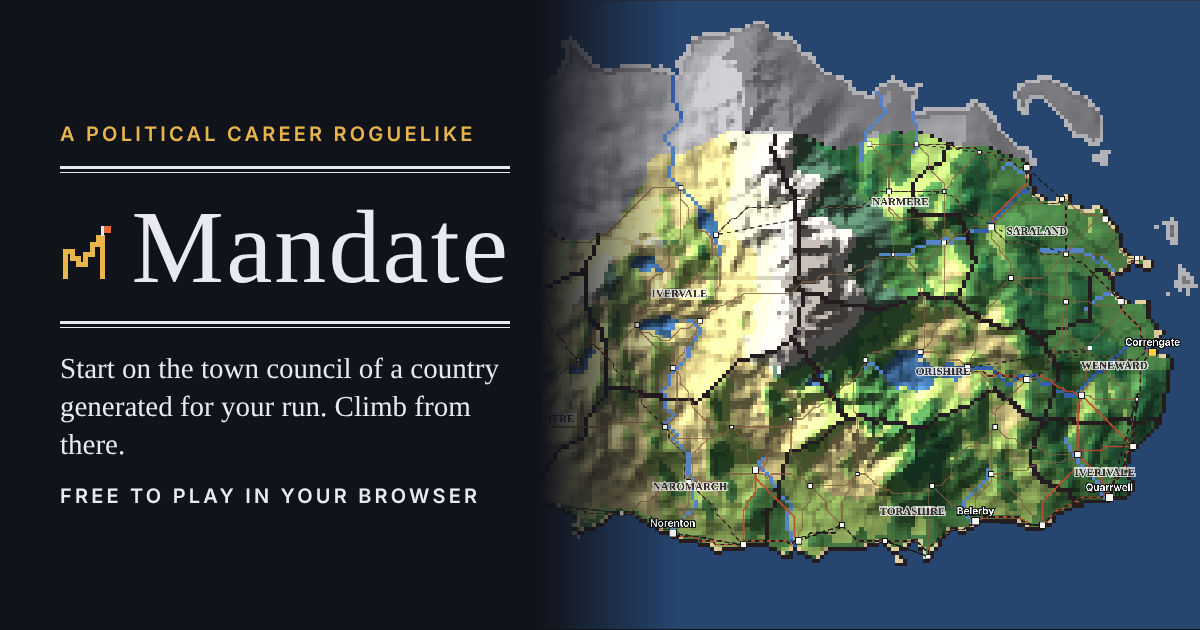
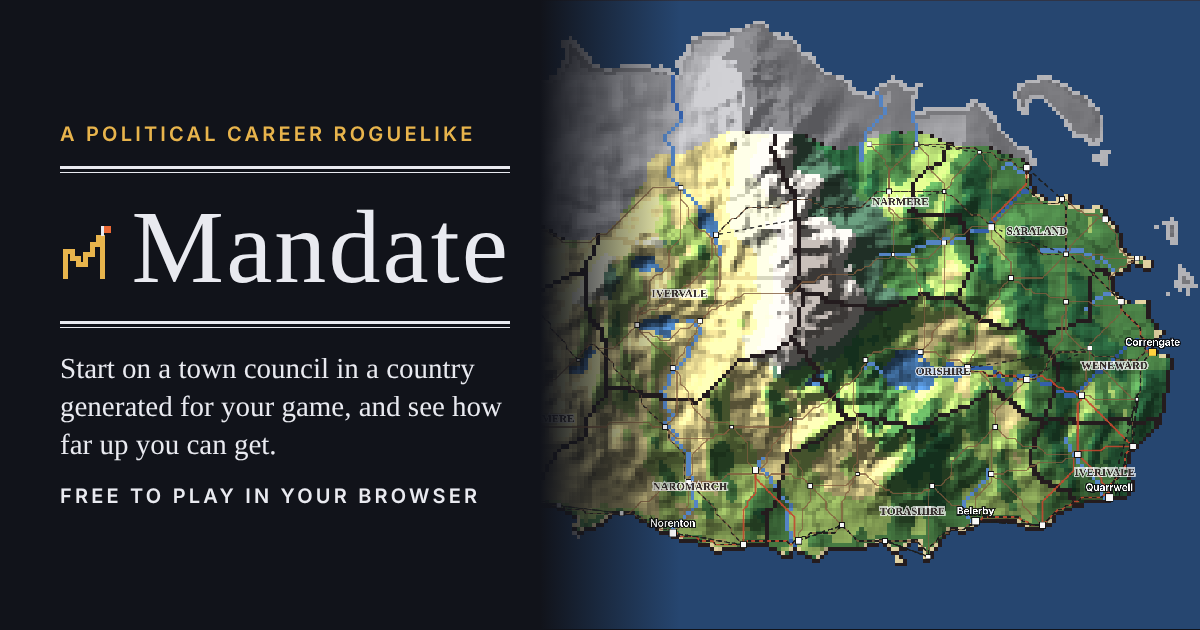
Landing: rewrite the copy in plain language
The first draft read as machine-written: clipped slogan fragments, rows of
threes, colon-led lists and jargon. The body text is now ordinary sentences;
the newspaper voice stays in the headlines, which are written as in-world
headlines. Meta and share-image text follow.

Claude-Session: https://claude.ai/code/session_018x5vMZbmDL1cDywk6v2vP3

Changed region(s): [[0.1233, 0.573, 0.4317, 0.6032], [0.2158, 0.6333, 0.4317, 0.6635], [0.0308, 0.6937, 0.2467, 0.7238]]

diff --git a/web/landing/index.html b/web/landing/index.html
@@ -6,7 +6,7 @@
     <title>Mandate: a political career roguelike, free in your browser</title>
     <meta
       name="description"
-      content="Every run generates a new country. You start on one of its town councils and try to climb. Elections are decided by real groups of voters, and the polls can be wrong. Free to play in your browser, offline on your phone. In active development."
+      content="A strategy game about a political career. Each game generates a new country and puts you on one of its town councils, and you try to work your way up. Free to play in your browser, and it works offline on your phone. Still in development."
     />
     <meta name="color-scheme" content="dark light" />
     <meta name="theme-color" content="#11131a" media="(prefers-color-scheme: dark)" />
@@ -18,7 +18,7 @@
     <meta property="og:title" content="Mandate: a political career roguelike" />
     <meta
       property="og:description"
-      content="A new country every run. Start on the town council and see how far up you get. Free to play in your browser."
+      content="Start on a town council in a country generated just for your game, and see how far up you can get. Free to play in your browser."
     />
     <meta property="og:image:width" content="1200" />
     <meta property="og:image:height" content="630" />
@@ -30,7 +30,7 @@
     <meta name="twitter:title" content="Mandate: a political career roguelike" />
     <meta
       name="twitter:description"
-      content="A new country every run. Start on the town council and see how far up you get. Free to play in your browser."
+      content="Start on a town council in a country generated just for your game, and see how far up you can get. Free to play in your browser."
     />
     <script>
       // An app installed before the game moved to play/ (DEC-083) still opens
@@ -47,8 +47,8 @@
 
     <header class="masthead">
       <p class="strip">
-        <span>In active development</span>
-        <span>Free in your browser</span>
+        <span>Still in development</span>
+        <span>Free to play in your browser</span>
         <span>Works offline</span>
       </p>
       <div class="nameplate">
@@ -76,12 +76,13 @@
       <article class="lead" id="lead" aria-labelledby="lead-title">
         <div class="lead-copy">
           <p class="kicker">A political career roguelike</p>
-          <h1 id="lead-title">Every run, a new country. You start on one of its town councils.</h1>
+          <h1 id="lead-title">Unknown councillor sets sights on the presidency</h1>
           <p class="deck">You can only do what you can get others to do.</p>
           <p class="standfirst">
-            Mandate generates a whole nation: its coast and rivers, its towns and industries, its parties, and twenty
-            years of history before you arrive. Then it gives you a seat on a town council. Pass bills, win your ward,
-            run for mayor, and find out how far up the ladder you can get.
+            Mandate is a strategy game about a political career. Every game builds a new country from scratch, with
+            its own map, towns, economy, parties and twenty years of history, and then gives you a seat on one town’s
+            council. You draft and pass bills, look after your ward, run for mayor and keep climbing until the voters,
+            your party or your own mistakes stop you.
           </p>
           <div class="cta">
             <a class="button" href="play/">
@@ -92,7 +93,7 @@
               Play in your browser
             </a>
             <div class="cta-note">
-              <p data-free-line>Free. No account, no download. Runs on your phone and keeps working offline.</p>
+              <p data-free-line>It’s free, with no account or download, and it keeps working offline on your phone.</p>
               <p class="continue" data-continue hidden>
                 <a href="play/">Continue your run</a>
                 <span data-continue-detail></span>
@@ -116,19 +117,19 @@
               />
             </picture>
             <figcaption>
-              <strong>The country of seed 4040</strong>, as the game draws it: mountains, rivers and lakes, regions,
-              roads and rail, and the gold square of the capital. Type the same seed and you get the same country.
+              <strong>The country generated from seed 4040.</strong> The capital is the gold square on the east coast.
+              Enter the same seed and you’ll get the same country.
             </figcaption>
           </figure>
           <nav class="inside" aria-label="In this edition">
             <p class="inside-head">Inside</p>
             <ol>
-              <li><a href="#results"><b>Election night</b> Polls can be wrong. The game tells you why.</a></li>
-              <li><a href="#career"><b>The career</b> Four rungs, from council to presidency.</a></li>
-              <li><a href="#town"><b>Around town</b> To do something, you go somewhere.</a></li>
-              <li><a href="#atlas"><b>Geography</b> A different country every run.</a></li>
-              <li><a href="#ledger"><b>Trade-offs</b> What every choice costs.</a></li>
-              <li><a href="#notices"><b>Notices</b> What is built, and what is coming.</a></li>
+              <li><a href="#results"><b>Election night</b> How votes are counted, and why polls miss</a></li>
+              <li><a href="#career"><b>The career</b> From the council to the presidency</a></li>
+              <li><a href="#town"><b>Around town</b> Where you go to get things done</a></li>
+              <li><a href="#atlas"><b>Geography</b> How each country is made</a></li>
+              <li><a href="#ledger"><b>Trade-offs</b> What each action costs you</a></li>
+              <li><a href="#notices"><b>Notices</b> What’s finished and what isn’t</a></li>
             </ol>
           </nav>
         </div>
@@ -137,18 +138,19 @@
       <section class="results" id="results" aria-labelledby="results-title">
         <div class="results-copy">
           <p class="kicker">Election night</p>
-          <h2 id="results-title">Ten months of doing nothing cost him 34 points</h2>
+          <h2 id="results-title">Councillor who did nothing loses Ward 3 by 36 points</h2>
           <p>
-            Elections in Mandate are counted, not rolled. Every neighbourhood is home to groups of voters, by age and
-            income, who each decide whether to turn out and whom to back: on the issues they care about, their party
-            loyalty, the candidates, your record and your campaign.
+            There’s no dice roll on election night. Each neighbourhood has its own mix of voters, grouped by age and
+            income, and each group decides whether to vote and who to vote for. That depends on the issues they care
+            about, how loyal they are to a party, what they think of the candidates, and what you’ve actually done in
+            office.
           </p>
           <p>
-            Polls ask a sample of those voters. They come with house effects and an error they share, so they can be
-            wrong, and wrong together. Here the polls had the incumbent at 26 per cent. He got 32. It was not close to
-            enough.
+            Polls only survey a sample of those voters, so they can miss, and because pollsters tend to make similar
+            assumptions they often miss in the same direction. In this race they had the councillor on 26%. He got 32%
+            and still lost badly.
           </p>
-          <p>After every count the game shows you why it went the way it did.</p>
+          <p>For this example we let a test player end every turn without doing anything for ten months. Every result in the game comes with a breakdown like the one shown here, and this one makes the problem obvious: his record in office cost him 34 points.</p>
         </div>
 
         <figure class="tally" data-reveal aria-labelledby="tally-title">
@@ -207,8 +209,8 @@
             </tbody>
           </table>
           <figcaption>
-            Reported from a real run (seed 4040) in which the player ended every turn without acting. The figures are
-            the game's own; names and parties are generated.
+            From a real game (seed 4040). The numbers come straight from the game, and the names and parties were
+            generated.
           </figcaption>
         </figure>
 
@@ -226,31 +228,31 @@
               alt="The game's election night screen on a phone: Ward 3, You lost, Edda Brooker 68 per cent, Fen Black 32 per cent, with final-poll markers and the factor breakdown below."
             />
           </picture>
-          <figcaption>The same night, on the game's own screen.</figcaption>
+          <figcaption>The same result on the game’s election night screen.</figcaption>
         </figure>
       </section>
 
       <section class="ladder" id="career" aria-labelledby="ladder-title" data-reveal>
         <p class="kicker">The career</p>
-        <h2 id="ladder-title">Four rungs. The first is built.</h2>
+        <h2 id="ladder-title">Only the first rung is built so far</h2>
         <ol class="rungs" reversed>
           <li class="rung-4">
             <h3>Presidency</h3>
-            <p><span class="tag">Coming</span> Win the country, then face the Mandate Test: the first national verdict on your presidency.</p>
+            <p><span class="tag">Coming</span> The race for president, and what happens once you win it.</p>
           </li>
           <li class="rung-3">
             <h3>National</h3>
-            <p><span class="tag">Coming</span> The national legislature, cabinet posts, and the levers of the economy.</p>
+            <p><span class="tag">Coming</span> A seat in the national legislature, cabinet jobs and a say over the economy.</p>
           </li>
           <li class="rung-2">
             <h3>Regional</h3>
-            <p><span class="tag">Coming</span> Regional office and the governor's race, with travel between towns.</p>
+            <p><span class="tag">Coming</span> Regional office and the race for governor, with travel between towns.</p>
           </li>
           <li class="rung-1 lit">
             <h3>Local</h3>
             <p>
-              <span class="tag tag-now">Playable now</span> A council seat. Draft and pass bills, cast your vote, defend
-              your ward, or give it up to run for mayor.
+              <span class="tag tag-now">Playable now</span> A seat on the town council. Draft bills, vote on
+              them, look after your ward, or give up the seat to run for mayor.
             </p>
           </li>
         </ol>
@@ -258,22 +260,23 @@
 
       <section class="directory" id="town" aria-labelledby="directory-title">
         <p class="kicker">Around town</p>
-        <h2 id="directory-title">To do something, you go somewhere</h2>
+        <h2 id="directory-title">You go to places to get things done</h2>
         <p class="intro">
-          Your town is a set of places, and each one has a job. Walking is free; acting takes one of your three slots a
-          turn, plus a late-night one. In a hurry, pick an action from your agenda and the game walks you there. Your
-          pocket always has the essentials. The places have the detail.
+          Your town is made up of places, and each one is for something different. Walking around costs nothing, but
+          every action uses one of the three time slots you get each turn, plus one late in the evening. If you’d rather
+          not walk, pick an action from your agenda and the game takes you to the right place. Your notebook keeps the
+          basics to hand, but for the full picture you have to go and look.
         </p>
         <dl class="listings">
-          <div><dt>Council chamber</dt><dd>Vote, introduce and amend bills, and see the exact whip count.</dd></div>
-          <div><dt>Town hall</dt><dd>Draft bills, file to run, read the budget papers and the full town figures.</dd></div>
-          <div><dt>Party office</dt><dd>Raise money and read the party's internal polls.</dd></div>
-          <div><dt>The diner</dt><dd>Lobby and trade favours, late into the night. Overhear what people worry about.</dd></div>
-          <div><dt>Market, union hall</dt><dd>Lobby by day, and listen.</dd></div>
-          <div><dt>The newspaper</dt><dd>Press statements and ads.</dd></div>
-          <div><dt>Community centre</dt><dd>Town hall meetings with a neighbourhood.</dd></div>
+          <div><dt>Council chamber</dt><dd>Vote, introduce and amend bills, and see exactly who’s voting which way.</dd></div>
+          <div><dt>Town hall</dt><dd>Draft bills, file to run for office, and read the budget and the town’s figures.</dd></div>
+          <div><dt>Party office</dt><dd>Raise money and see the party’s private polling.</dd></div>
+          <div><dt>The diner</dt><dd>Meet colleagues in the evening to lobby and trade favours, and overhear what’s worrying people.</dd></div>
+          <div><dt>Market, union hall</dt><dd>Lobby people during the day and hear what’s on their minds.</dd></div>
+          <div><dt>The newspaper</dt><dd>Give statements to the press and buy ads.</dd></div>
+          <div><dt>Community centre</dt><dd>Hold a public meeting for one neighbourhood.</dd></div>
           <div><dt>The streets</dt><dd>Knock on doors, one neighbourhood at a time.</dd></div>
-          <div><dt>Home</dt><dd>Rest. You will need it.</dd></div>
+          <div><dt>Home</dt><dd>Rest and get your health back.</dd></div>
         </dl>
         <div class="phones">
           <figure class="phone">
@@ -290,7 +293,7 @@
                 alt="The town screen of Thornerhaven on a phone: the date and turn at the top, then places to tap: the streets, the town hall, the council chamber, the party office, Nell's diner, the market and the Thornerhaven Herald."
               />
             </picture>
-            <figcaption>Thornerhaven's town screen today.</figcaption>
+            <figcaption>The town screen as it looks today.</figcaption>
           </figure>
           <figure class="phone">
             <picture>
@@ -306,21 +309,22 @@
                 alt="The council chamber panel on a phone: a vote on a local wage floor, expected yes 5 of 7, the player's party expects a no vote, and buttons to vote yes, vote no or abstain."
               />
             </picture>
-            <figcaption>In the chamber: your party wants a no, your ward wants a yes.</figcaption>
+            <figcaption>A vote in the chamber where your party wants a no and your ward wants a yes.</figcaption>
           </figure>
         </div>
-        <p class="aside">A walkable pixel-art town will replace this screen. It is being built now.</p>
+        <p class="aside">This screen is being replaced by a pixel-art town you can walk around in.</p>
       </section>
 
       <section class="atlas" id="atlas" aria-labelledby="atlas-title">
         <div class="atlas-copy">
           <p class="kicker">Geography</p>
-          <h2 id="atlas-title">Same rules. Different country.</h2>
+          <h2 id="atlas-title">A new country every game</h2>
           <p>
-            Each run raises mountains, runs the rivers to the sea, and settles towns where people would actually live.
-            Regions grow along natural borders. Eight industries, from farms to factories, set the jobs and wages, and
-            the parties form around the country's real divisions. Floods, droughts, recessions and plant closures arrive
-            on their own schedule. Pick one of five starting scenarios, or let the seed decide.
+            Each game generates its own terrain, rivers and coastline, and puts towns where people would plausibly
+            settle. Regional borders follow the land. Eight industries, from farming to manufacturing, decide where the
+            jobs and wages are, and the parties form around whatever divides that particular country. Floods, droughts,
+            recessions and plant closures happen when the simulation says they do, not on a script. You can choose one
+            of five starting scenarios or leave it to chance.
           </p>
         </div>
         <ul class="maps">
@@ -356,26 +360,26 @@
 
       <section class="ledger" id="ledger" aria-labelledby="ledger-title">
         <p class="kicker">The trade-offs</p>
-        <h2 id="ledger-title">Every choice costs someone something</h2>
+        <h2 id="ledger-title">Everything you do has a cost</h2>
         <table>
           <caption class="visually-hidden">What each action gives you and what it costs</caption>
           <thead>
             <tr><th scope="col">You choose to</th><th scope="col">You get</th><th scope="col">It costs</th></tr>
           </thead>
           <tbody>
-            <tr><th scope="row">Canvass</th><td data-label="You get">The deepest contact: names and turnout in one neighbourhood, and it lasts</td><td data-label="It costs">A whole day, and your health</td></tr>
-            <tr><th scope="row">Buy ads</th><td data-label="You get">Thin reach across town, with no time spent</td><td data-label="It costs">Money, and it fades fast</td></tr>
-            <tr><th scope="row">Fundraise</th><td data-label="You get">Money, and standing with your party</td><td data-label="It costs">Health; low-income voters cool on you</td></tr>
-            <tr><th scope="row">Talk to the press</th><td data-label="You get">Reach across the whole town</td><td data-label="It costs">The odds of a gaffe, shown before you speak</td></tr>
-            <tr><th scope="row">Hold a town hall</th><td data-label="You get">A neighbourhood's attention, and a spotlight on your bill</td><td data-label="It costs">A hostile crowd, where you are not liked</td></tr>
-            <tr><th scope="row">Meet late at the diner</th><td data-label="You get">A colleague's vote</td><td data-label="It costs">Health, and a little legal risk</td></tr>
-            <tr><th scope="row">Defy your party</th><td data-label="You get">Your ward's approval, if it agrees with you</td><td data-label="It costs">Standing with the party</td></tr>
+            <tr><th scope="row">Canvass</th><td data-label="You get">Strong, lasting support in one neighbourhood</td><td data-label="It costs">A whole day, and some of your health</td></tr>
+            <tr><th scope="row">Buy ads</th><td data-label="You get">A little recognition across the whole town, without spending any time</td><td data-label="It costs">Money, and the effect wears off quickly</td></tr>
+            <tr><th scope="row">Fundraise</th><td data-label="You get">Money, and standing with your party</td><td data-label="It costs">Your health, and some goodwill from lower-income voters</td></tr>
+            <tr><th scope="row">Talk to the press</th><td data-label="You get">Reach across the whole town</td><td data-label="It costs">A chance of a gaffe (you see the odds first)</td></tr>
+            <tr><th scope="row">Hold a town hall</th><td data-label="You get">A neighbourhood's attention, and a spotlight on your bill</td><td data-label="It costs">A rough reception in places where you’re unpopular</td></tr>
+            <tr><th scope="row">Meet late at the diner</th><td data-label="You get">A colleague's vote</td><td data-label="It costs">Some health, and a small legal risk</td></tr>
+            <tr><th scope="row">Defy your party</th><td data-label="You get">Your ward’s approval, if they agree with you</td><td data-label="It costs">Your standing with the party</td></tr>
             <tr><th scope="row">Run for mayor</th><td data-label="You get">A bigger office</td><td data-label="It costs">Your council seat, win or lose</td></tr>
           </tbody>
         </table>
         <p class="footnote">
-          Policies too: every bill has side effects. Building work disrupts a neighbourhood, a wage floor costs some jobs,
-          and the people a law hurts remember who sponsored it.
+          Bills have side effects too. Building work disrupts a neighbourhood, a minimum wage costs some jobs, and the
+          people a law hurts remember who sponsored it.
         </p>
       </section>
 
@@ -384,23 +388,23 @@
         <dl>
           <dt>In development</dt>
           <dd>
-            Mandate is being built in the open and changes often. Today you can play the first act: one town, its
-            council, its elections, and the people in it, who remember what you did.
+            Mandate is a work in progress and changes often. Right now you can play the first stage of a career: one
+            town, its council and its elections, and the people who live there, who remember how you treated them.
           </dd>
           <dt>Coming</dt>
           <dd>
-            Storylines and dilemmas. The press and its scandals. The walkable pixel-art town. Regional and national
-            careers, and the presidency.
+            Story events and hard choices, newspapers and scandals, a pixel-art town you can walk around, and then
+            regional and national politics all the way up to the presidency.
           </dd>
           <dt>Ironman by default</dt>
-          <dd>One timeline, saved after every action. There is no reloading a lost election.</dd>
+          <dd>The game saves after every action and you can’t load an earlier save, so a lost election stays lost.</dd>
           <dt>Your saves are yours</dt>
           <dd>
-            They stay in your browser. There is no account and no server. Export a run as a <code>.mandate</code> file
-            to back it up or move it to another device.
+            Your games are stored in your browser, not on a server, and there’s no account. You can export a game as a
+            <code>.mandate</code> file to back it up or move it to another device.
           </dd>
           <dt>Offline</dt>
-          <dd>Once loaded, the game runs without a connection. On a phone, add it to your home screen.</dd>
+          <dd>After your first visit the game works without a connection. On a phone you can add it to your home screen.</dd>
         </dl>
       </aside>
     </main>

diff --git a/web/e2e/sw-migration.spec.ts b/web/e2e/sw-migration.spec.ts
@@ -128,7 +128,7 @@ test.describe("service-worker migration to play/", () => {
       // which clears the old cache and reloads the page from the network.
       site.deploy(NEW_DIST);
       await page.reload();
-      await expect(page.getByRole("heading", { level: 1 })).toContainText("Every run, a new country", { timeout: 20_000 });
+      await expect(page.getByRole("heading", { level: 1 })).toContainText("Unknown councillor sets sights", { timeout: 20_000 });
       const state = await page.evaluate(async () => ({
         caches: await caches.keys(),
         scopes: (await navigator.serviceWorker.getRegistrations()).map((r) => r.scope),
@@ -145,7 +145,7 @@ test.describe("service-worker migration to play/", () => {
         .toEqual([`${site.url}play/`]);
       // A later visit to the landing page is not taken over by anything.
       await page.goto(site.url);
-      await expect(page.getByRole("heading", { level: 1 })).toContainText("Every run, a new country");
+      await expect(page.getByRole("heading", { level: 1 })).toContainText("Unknown councillor sets sights");
     } finally {
       await site.close();
     }
@@ -174,7 +174,7 @@ test.describe("service-worker migration to play/", () => {
 
       site.deploy(NEW_DIST);
       await page.reload();
-      await expect(page.getByRole("heading", { level: 1 })).toContainText("Every run, a new country", { timeout: 30_000 });
+      await expect(page.getByRole("heading", { level: 1 })).toContainText("Unknown councillor sets sights", { timeout: 30_000 });
       await expect(page.locator("[data-continue]")).toBeVisible();
 
       await page.getByRole("link", { name: "Continue your run" }).click();

diff --git a/web/e2e/landing.spec.ts b/web/e2e/landing.spec.ts
@@ -40,7 +40,7 @@ test("landing page: one action to the game, no errors, sound structure", async (
   await page.goto(LANDING);
 
   await expect(page.locator("h1")).toHaveCount(1);
-  await expect(page.locator("h1")).toContainText("Every run, a new country");
+  await expect(page.locator("h1")).toContainText("Unknown councillor sets sights");
   await expect(page.getByRole("banner")).toHaveCount(1);
   await expect(page.getByRole("main")).toHaveCount(1);
   await expect(page.getByRole("contentinfo")).toHaveCount(1);
